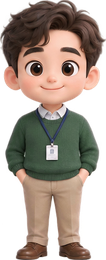
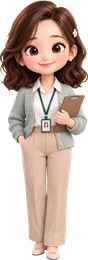
Female 수박이 이사 sprite; WORK/IDLE pose sprites (seated at desk vs relaxed) driven by existing room state classes (visual only)

diff --git a/index.html b/index.html
@@ -2698,6 +2698,47 @@
     .rooms.three .room:nth-child(3) { grid-column: 1 / -1; }
     .lobby, .b1 { background-size: cover; min-height: 150px; }
   }
+
+  /* 상태별 포즈: WORK=책상에 앉아 작업, IDLE=자유 시간 포즈 (기존 working/idle 클래스 그대로 사용) */
+  #room-owner.idle .avatar { background-image: url(assets/i0.png); }
+  #room-owner.working .avatar { background-image: url(assets/w0.png); width: 78px; height: 92px; }
+  #room-instinct.idle .avatar { background-image: url(assets/i1.png); }
+  #room-instinct.working .avatar { background-image: url(assets/w1.png); width: 78px; height: 92px; }
+  #room-ceo_haebyeong.idle .avatar { background-image: url(assets/i2.png); }
+  #room-ceo_haebyeong.working .avatar { background-image: url(assets/w2.png); width: 78px; height: 92px; }
+  #room-ceo_tudeori.idle .avatar { background-image: url(assets/i3.png); }
+  #room-ceo_tudeori.working .avatar { background-image: url(assets/w3.png); width: 78px; height: 92px; }
+  #room-director_subaki.idle .avatar { background-image: url(assets/i4.png); }
+  #room-director_subaki.working .avatar { background-image: url(assets/w4.png); width: 78px; height: 92px; }
+  #room-naver.idle .avatar { background-image: url(assets/i5.png); }
+  #room-naver.working .avatar { background-image: url(assets/w5.png); width: 78px; height: 92px; }
+  #room-haebyeongi_adsense.idle .avatar { background-image: url(assets/i6.png); }
+  #room-haebyeongi_adsense.working .avatar { background-image: url(assets/w6.png); width: 78px; height: 92px; }
+  #room-invest_sp500.idle .avatar { background-image: url(assets/i7.png); }
+  #room-invest_sp500.working .avatar { background-image: url(assets/w7.png); width: 78px; height: 92px; }
+  #room-commerce.idle .avatar { background-image: url(assets/i8.png); }
+  #room-commerce.working .avatar { background-image: url(assets/w8.png); width: 78px; height: 92px; }
+  #room-grant.idle .avatar { background-image: url(assets/i9.png); }
+  #room-grant.working .avatar { background-image: url(assets/w9.png); width: 78px; height: 92px; }
+  #room-deal.idle .avatar { background-image: url(assets/i10.png); }
+  #room-deal.working .avatar { background-image: url(assets/w10.png); width: 78px; height: 92px; }
+  #room-prize.idle .avatar { background-image: url(assets/i11.png); }
+  #room-prize.working .avatar { background-image: url(assets/w11.png); width: 78px; height: 92px; }
+  #room-tistory.idle .avatar { background-image: url(assets/i12.png); }
+  #room-tistory.working .avatar { background-image: url(assets/w12.png); width: 78px; height: 92px; }
+  #room-cafe.idle .avatar { background-image: url(assets/i13.png); }
+  #room-cafe.working .avatar { background-image: url(assets/w13.png); width: 78px; height: 92px; }
+  #room-blog.idle .avatar { background-image: url(assets/i14.png); }
+  #room-blog.working .avatar { background-image: url(assets/w14.png); width: 78px; height: 92px; }
+  #room-front_desk.idle .avatar { background-image: url(assets/i15.png); }
+  #room-front_desk.working .avatar { background-image: url(assets/w15.png); width: 78px; height: 92px; }
+  #room-public_quiz.idle .avatar { background-image: url(assets/i16.png); }
+  #room-public_quiz.working .avatar { background-image: url(assets/w16.png); width: 78px; height: 92px; }
+  #room-cumex.idle .avatar { background-image: url(assets/i17.png); }
+  #room-cumex.working .avatar { background-image: url(assets/w17.png); width: 78px; height: 92px; }
+  .room.working .worker { animation: none; }
+  .room.working .avatar { animation: none; }
+  .room.working .avatar { filter: drop-shadow(0 3px 3px rgba(0,0,0,.45)); }
 </style>
 </head>
 <body>
